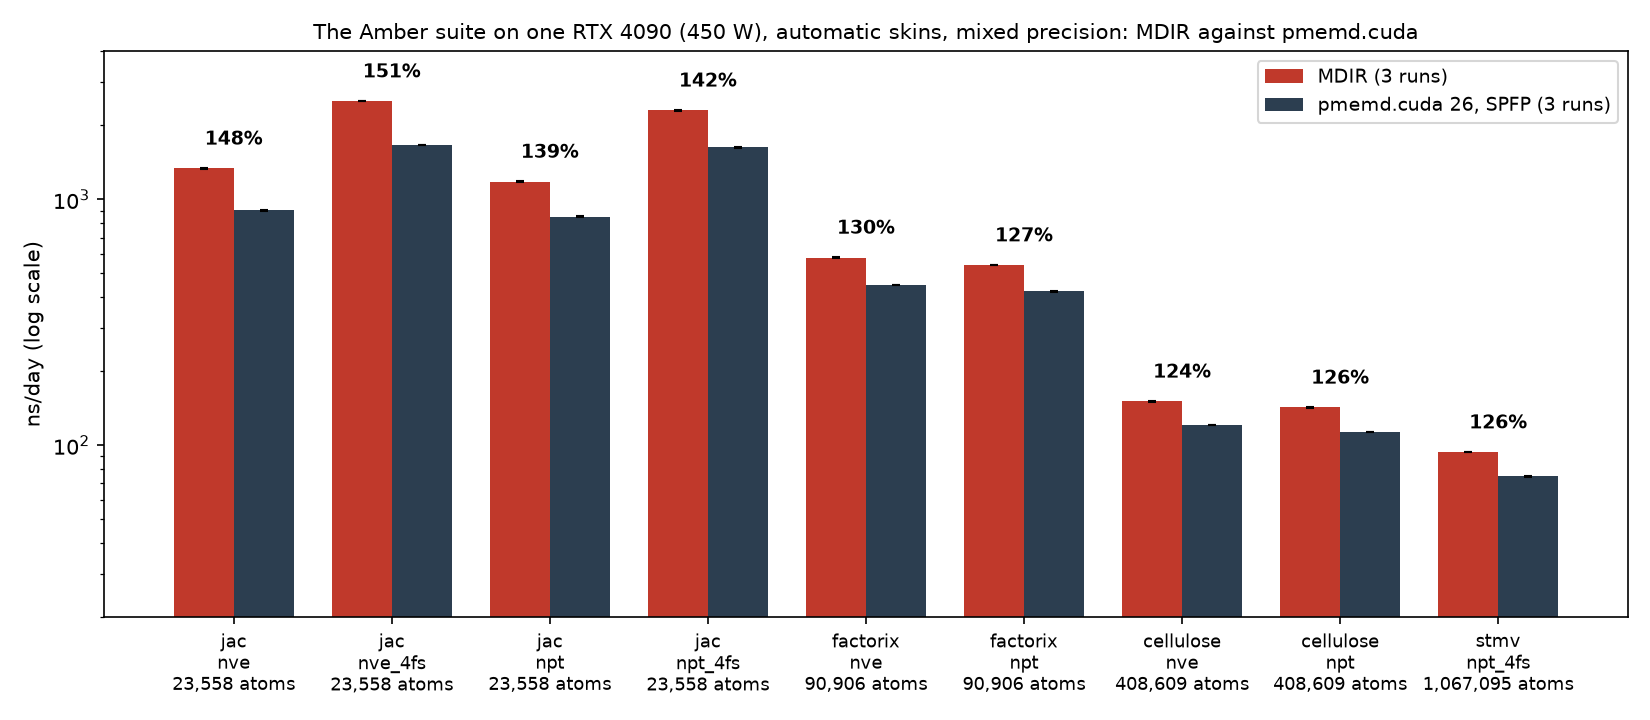
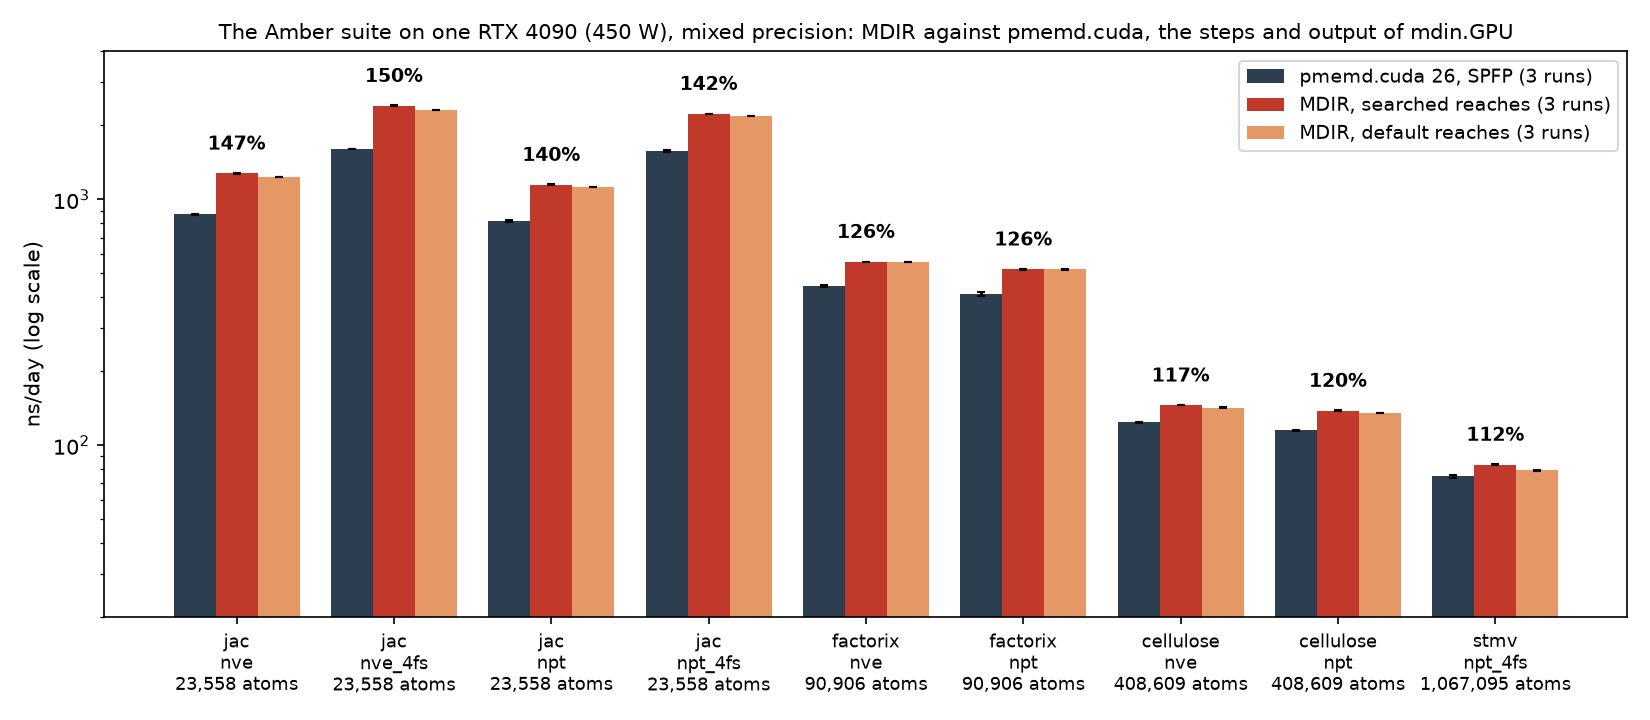
Suite tables of the protocol of mdin.GPU; Figure 10.1 measured again
suite-table.py prints the rates (searched and default reaches against
pmemd.cuda), the share of the output, and the time to solution as three
tables. The figure is from three repeats on one RTX 4090 (D[suite-symmetric]).

diff --git a/scripts/paper/suite-table.py b/scripts/paper/suite-table.py
@@ -11,8 +11,8 @@ programs, from the first report of mdin.GPU to its last step
 (D[suite-symmetric]). Rates and times are the mean and the sample standard
 deviation over the repeats; a ratio is taken within each repeat, between
 runs that ran one after the other on the same device, and then averaged.
-Prints two tables in Markdown: the rates (Table 10.2) and the share of the
-output and the time to solution (Table 10.3).
+Prints three tables in Markdown: the rates (Table 10.2), the share of the
+output (Table 10.3), and the time to solution (Table 10.4).
 
 Without runs.jsonl, LOGS is that of the protocol before D[suite-symmetric]
 (mdir-N.log and pmemd-N.log, the summaries of bench.py, and
@@ -161,37 +161,34 @@ def symmetric(logs):
               f"| {reaches} | {change} | {every} |")
     print()
     print("| System | pmemd.cuda, energies only | MDIR, energies only "
-          "| MDIR / pmemd.cuda | Output's share: pmemd.cuda | MDIR "
-          "| Wall time of the run, s: pmemd.cuda | MDIR | Of it outside the "
-          "steps (derived), s: pmemd.cuda | MDIR | Wall time of 1 ns "
-          "(derived), min: pmemd.cuda | MDIR |")
-    print("|---|---|---|---|---|---|---|---|---|---|---|---|")
+          "| MDIR / pmemd.cuda | Output's share: pmemd.cuda | MDIR |")
+    print("|---|---|---|---|---|---|")
     for name in SYSTEMS:
         print(f"| `{name}` "
               f"| {spread(values('energies', name), 1)} "
               f"| {spread(values('searched-energies', name), 1)} "
               f"| {spread(ratios('searched-energies', 'energies', name), 1, '%')} "
               f"| {spread(shares('output', 'energies', name), 1, '%')} "
-              f"| {spread(shares('searched', 'searched-energies', name), 1, '%')} "
+              f"| {spread(shares('searched', 'searched-energies', name), 1, '%')} |")
+    print()
+    print("| System | Wall time of the run, s: pmemd.cuda | MDIR | Of it "
+          "outside the steps (derived), s: pmemd.cuda | MDIR | pmemd.cuda's "
+          "setup, s | MDIR compiled in, s | Wall time of 1 ns (derived), "
+          "min: pmemd.cuda | MDIR |")
+    print("|---|---|---|---|---|---|---|---|---|")
+    for name in SYSTEMS:
+        print(f"| `{name}` "
               f"| {spread(values('output', name, 'wall'), 1)} "
               f"| {spread(values('searched', name, 'wall'), 1)} "
               f"| {spread(fixed('output', name), 1)} "
               f"| {spread(fixed('searched', name), 1)} "
+              f"| {spread(values('output', name, 'setup_wall'), 0)} "
+              f"| {spread(values('searched', name, 'compiled'), 1)} "
               f"| {spread(one_ns('output', name), 2)} "
               f"| {spread(one_ns('searched', name), 2)} |")
-    # The checks: pmemd's setup and MDIR's compilation, the window of
-    # pmemd, and the clock of the rows against MDIR's own over the second
-    # half.
+    # The check of the clock of the rows against MDIR's own over the
+    # second half of its run.
     print()
-    for name in SYSTEMS:
-        setup = values("output", name, "setup_wall")
-        nonsetup = values("output", name, "nonsetup_wall")
-        compiled = values("searched", name, "compiled")
-        default_wall = values("default", name, "wall")
-        print(f"{name}: pmemd setup wall {spread(setup, 0)} s, nonsetup "
-              f"{spread(nonsetup, 0)} s; MDIR compiled in "
-              f"{spread(compiled, 1)} s; MDIR default wall "
-              f"{spread(default_wall, 1)} s")
     worst = []
     for key, run in by.items():
         if run.get("half_ns_per_day") and run.get("half_ns_per_day_by_rows"):

diff --git a/scripts/benchmarks/amber/bench.py b/scripts/benchmarks/amber/bench.py
@@ -48,7 +48,8 @@ SUITE_URL = "https://ambermd.org/Amber24_Benchmark_Suite.tar.gz"
[1 lines of base64/hex data omitted]
 
 # The systems, from the directories of the suite. `steps` is how many a
-# timing takes; `pmemd` is the rate of pmemd.cuda on an RTX 3090 that
+# timing of MDIR takes without --suite-protocol, which takes `nstlim` of
+# mdin.GPU instead; `pmemd` is the rate of pmemd.cuda on an RTX 3090 that
 # ambermd.org/GPUPerformance.php reports, in ns/day, where it reports one.
 SYSTEMS = {
     "jac_nve": dict(directory="JAC_production_NVE", ensemble="NVE",

diff --git a/scripts/benchmarks/amber/README.md b/scripts/benchmarks/amber/README.md
@@ -66,6 +66,11 @@ bench.py --work DIR run mdir --mdir PATH_TO_MDIR --neighbor-structure GROUPS \
 bench.py --work DIR run mdir --mdir PATH_TO_MDIR --skin AUTO
                                      # the reaches chosen by the run (D281)
 bench.py --work DIR run gromacs [SYSTEM ...] --gmx PATH_TO_GMX
+bench.py --work DIR run mdir --mdir PATH_TO_MDIR --skin AUTO --suite-protocol \
+    [--energies-only] [--record FILE --variant NAME --repeat N]
+bench.py --work DIR run pmemd --pmemd PATH_TO_PMEMD_CUDA --suite-protocol \
+    [--energies-only] [--record FILE --variant NAME --repeat N]
+                                     # the protocol of mdin.GPU for both
 bench.py --work DIR report
 ```
 
@@ -88,6 +93,34 @@ which measures the candidates and caches its choice, and time the runs
 after it, which take the cache; `scripts/paper/run-suite-repeats.sh` does
 this for the white paper (Section 10). `--prune-skin AUTO` with a number
 for `--skin` leaves the inner list alone to the run.
+
+## The protocol of the suite's inputs
+
+Without `--suite-protocol`, MDIR runs `steps` of `SYSTEMS` (JAC 10,000,
+Factor IX 4000, Cellulose 1000, STMV 500), writes the energies twice and
+nothing else, and its rate is over the second half of the run, while
+pmemd runs `mdin.GPU` and its rate is over all steps.
+`--suite-protocol` (D[suite-symmetric]) runs both programs under the
+protocol of each system's `mdin.GPU`:
+
+| | `mdin.GPU` | MDIR |
+|---|---|---|
+| Steps | `nstlim`: JAC 100,000, Factor IX 20,000, Cellulose 30,000, STMV 2000 | `steps` = `nstlim` |
+| Energies | every `ntpr` steps (2500, 1000, 1000, 1000) in `mdout` and `mdinfo` | `energy_interval` = `ntpr`, the log |
+| Trajectory | every `ntwx` steps, NetCDF (`ioutfm=1`), f32 positions | `trajectory_interval` = `ntwx`, DCD: f32 positions and the cell, uncompressed, the format of MDIR closest in cost |
+| Restarts | every `ntwr` steps (50,000, 10,000, 8000, 1000) and at the end | `checkpoint_interval`: `ntwr`, or for Cellulose 6000, the largest multiple of `ntwx` below `ntwr` that divides `nstlim` |
+| Rate | "Average timings for last N steps", N = `nstlim` − `ntpr`, from pmemd's output | the same steps, from the row of step `ntpr` to that of step `nstlim` in MDIR's log, by the clock of bench.py as each row arrives; MDIR prints a row once the device has finished its step and flushes the log |
+
+`--energies-only` keeps the energies and drops the trajectory and the
+restarts: MDIR without `trajectory` and `checkpoint`, pmemd with a copy of
+`mdin.GPU` with `ntwx=0` and `ntwr=nstlim`, in `SYSTEM/pmemd-energies`
+(pmemd still writes its restart at the end). Every run records the wall
+time of its process, from its start to its exit; pmemd's own wall times
+of setup and of the rest (whole seconds) and MDIR's time of compilation
+are recorded as well. `--record FILE` appends all the numbers of a run as
+one line of JSON, with `--variant` and `--repeat`, which
+`scripts/paper/run-suite-repeats.sh` and `suite-table.py` use for the
+white paper (Section 10).
 
 `bench.py --work DIR smoke --mdir PATH_TO_MDIR` runs 50 steps (two
 coupling periods), with energy output only at the start and end. Add
